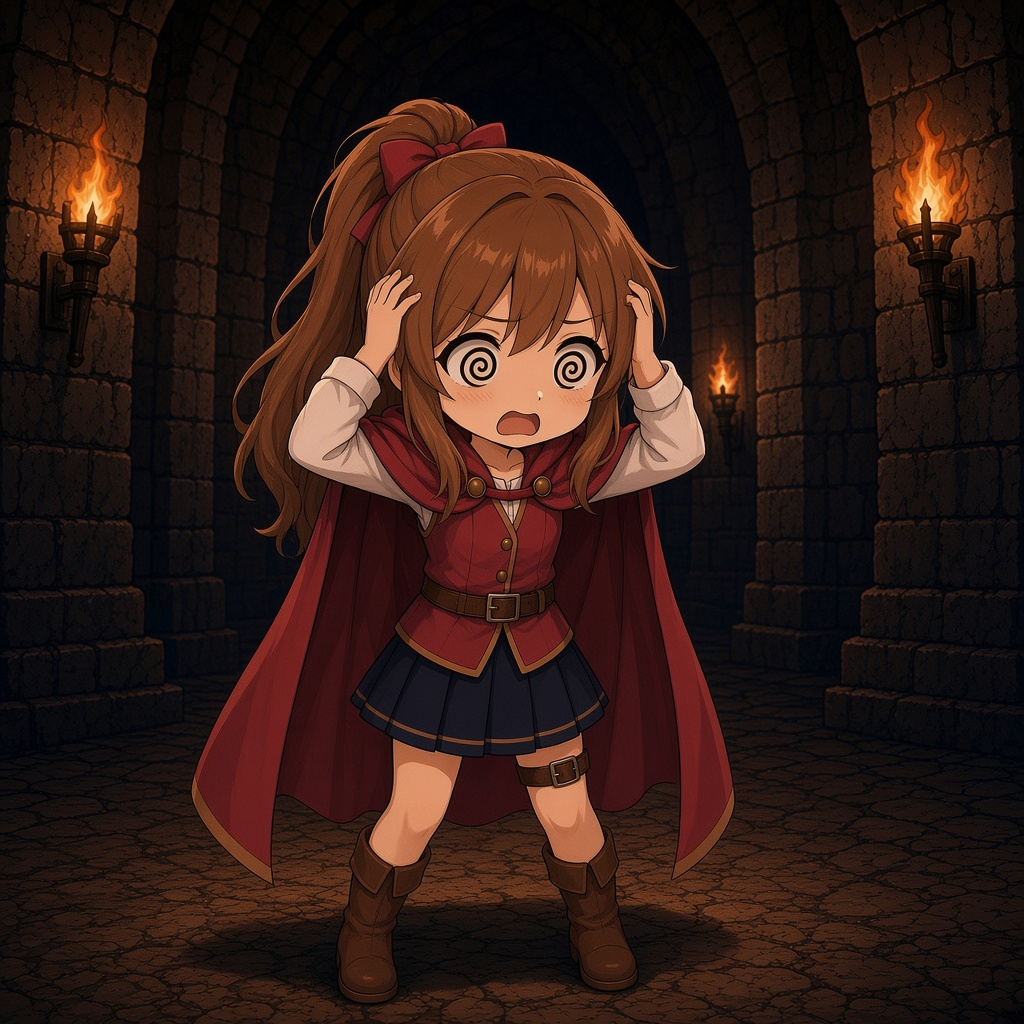
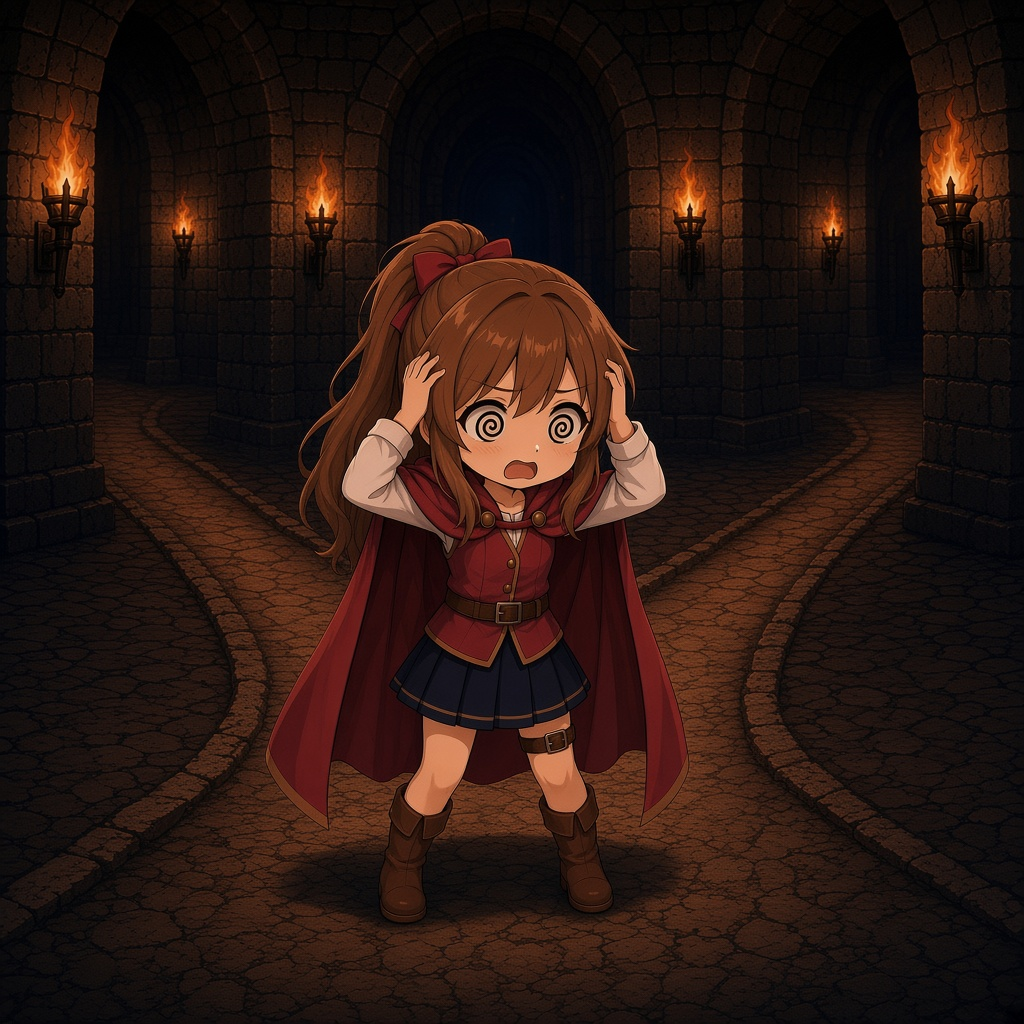
Add path, event, and gear art, and cut out the beggar.

diff --git a/index.html b/index.html
@@ -6021,7 +6021,7 @@
       },
       {
         name: "物乞い",
-        image: "enemy-beggar.jpg?v=1",
+        image: "enemy-beggar.png?v=2",
         rank: "雑魚",
         hp: 15,
         atkHidden: 3,
@@ -6575,20 +6575,20 @@
     const GEAR_ITEMS = [
       { id: "short-sword", name: "ショートソード", slot: "sword", stars: 1, atk: 1, effect: "★　ATK+1", image: "gear-short-sword.jpg?v=2" },
       { id: "long-sword", name: "ロングソード", slot: "sword", stars: 1, atk: 2, effect: "★　ATK+2", image: "gear-long-sword.jpg?v=2" },
-      { id: "poison-sword", name: "ポイズンソード", slot: "sword", stars: 3, atk: 1, poisonHit: 1, effect: "★★★　ATK+1。アタックカードでダメージを与えるたび毒+1（敵のシールドでも毒は入る）", image: "gear-poison-sword.svg?v=2" },
-      { id: "flame-sword", name: "フレイムソード", slot: "sword", stars: 3, atk: 2, burnHit: 1, effect: "★★★　ATK+2。与えるダメージを通すたび炎上+1", image: "gear-flame-sword.svg?v=2" },
-      { id: "excalibur", name: "大天使の剣", slot: "sword", stars: 5, atk: 5, ignoreDef: true, effect: "★★★★★　ATK+5。敵のDEFを無視する", image: "gear-excalibur.svg?v=2" },
+      { id: "poison-sword", name: "ポイズンソード", slot: "sword", stars: 3, atk: 1, poisonHit: 1, effect: "★★★　ATK+1。アタックカードでダメージを与えるたび毒+1（敵のシールドでも毒は入る）", image: "gear-poison-sword.jpg?v=3" },
+      { id: "flame-sword", name: "フレイムソード", slot: "sword", stars: 3, atk: 2, burnHit: 1, effect: "★★★　ATK+2。与えるダメージを通すたび炎上+1", image: "gear-flame-sword.jpg?v=3" },
+      { id: "excalibur", name: "大天使の剣", slot: "sword", stars: 5, atk: 5, ignoreDef: true, effect: "★★★★★　ATK+5。敵のDEFを無視する", image: "gear-excalibur.jpg?v=3" },
       { id: "buckler", name: "バックラー", slot: "shield", stars: 1, def: 1, effect: "★　DEF+1", image: "gear-buckler.jpg" },
       { id: "leather-shield", name: "皮の盾", slot: "shield", stars: 1, def: 1, effect: "★　DEF+1", image: "gear-leather-shield.jpg" },
       { id: "iron-shield", name: "鉄の盾", slot: "shield", stars: 1, def: 2, effect: "★　DEF+2", image: "gear-iron-shield.jpg" },
-      { id: "battle-counter", name: "バトルカウンター", slot: "shield", stars: 3, def: 2, reflectDef: true, effect: "★★★　DEF+2。ダメージを食らうと、相手にいまのDEFだけダメージ", image: "gear-battle-counter.svg?v=2" },
-      { id: "eagle-shield", name: "大天使の盾", slot: "shield", stars: 5, def: 5, statusImmune: true, effect: "★★★★★　DEF+5。状態異常を無視する", image: "gear-eagle-shield.svg?v=2" },
-      { id: "lion-shield", name: "獅子の盾", slot: "shield", stars: 4, atk: 2, def: 2, effect: "★★★★　ATK+2　DEF+2", image: "gear-lion-shield.svg?v=2" },
-      { id: "chain-attack", name: "連撃の腕輪", slot: "braceletR", stars: 4, effect: "★★★★　手札に攻撃がないとき、山札から攻撃カードを引く。右にのみ装備できる。", image: "gear-bracelet.jpg" },
-      { id: "chain-guard", name: "連守の腕輪", slot: "braceletL", stars: 4, effect: "★★★★　手札に防御がないとき、山札から防御カードを引く。左にのみ装備できる。", image: "gear-bracelet.jpg" },
-      { id: "power-bracelet", name: "力の腕輪", slot: "braceletR", stars: 2, atk: 3, effect: "★★　右手。ATK+3", image: "gear-power-bracelet.svg?v=2" },
-      { id: "guard-bracelet", name: "守りの腕輪", slot: "braceletL", stars: 2, def: 3, effect: "★★　左手。DEF+3", image: "gear-guard-bracelet.svg?v=2" },
-      { id: "reuse-bracelet", name: "再利用の腕輪", slot: "braceletAny", stars: 3, carryMana: true, effect: "★★★　使わなかったマナを次のターンへ持ち越す。持ち越し分はオレンジの一時マナで、使うと空枠を残さず消える", image: "gear-reuse-bracelet.svg?v=2" },
+      { id: "battle-counter", name: "バトルカウンター", slot: "shield", stars: 3, def: 2, reflectDef: true, effect: "★★★　DEF+2。ダメージを食らうと、相手にいまのDEFだけダメージ", image: "gear-battle-counter.jpg?v=3" },
+      { id: "eagle-shield", name: "大天使の盾", slot: "shield", stars: 5, def: 5, statusImmune: true, effect: "★★★★★　DEF+5。状態異常を無視する", image: "gear-eagle-shield.jpg?v=3" },
+      { id: "lion-shield", name: "獅子の盾", slot: "shield", stars: 4, atk: 2, def: 2, effect: "★★★★　ATK+2　DEF+2", image: "gear-lion-shield.jpg?v=3" },
+      { id: "chain-attack", name: "連撃の腕輪", slot: "braceletR", stars: 4, effect: "★★★★　手札に攻撃がないとき、山札から攻撃カードを引く。右にのみ装備できる。", image: "gear-chain-attack.jpg?v=3" },
+      { id: "chain-guard", name: "連守の腕輪", slot: "braceletL", stars: 4, effect: "★★★★　手札に防御がないとき、山札から防御カードを引く。左にのみ装備できる。", image: "gear-chain-guard.jpg?v=3" },
+      { id: "power-bracelet", name: "力の腕輪", slot: "braceletR", stars: 2, atk: 3, effect: "★★　右手。ATK+3", image: "gear-power-bracelet.jpg?v=3" },
+      { id: "guard-bracelet", name: "守りの腕輪", slot: "braceletL", stars: 2, def: 3, effect: "★★　左手。DEF+3", image: "gear-guard-bracelet.jpg?v=3" },
+      { id: "reuse-bracelet", name: "再利用の腕輪", slot: "braceletAny", stars: 3, carryMana: true, effect: "★★★　使わなかったマナを次のターンへ持ち越す。持ち越し分はオレンジの一時マナで、使うと空枠を残さず消える", image: "gear-reuse-bracelet.jpg?v=3" },
     ];
     // ボスの報酬だけで手に入る。ランダムな装備には入れない。レアリティ欄は「ボス」。
     const BOSS_GEAR = [
@@ -9785,20 +9785,20 @@
             <div class="ref-grid">
               ${sheetFig("gear-short-sword.jpg?v=2", "ショートソード")}
               ${sheetFig("gear-long-sword.jpg?v=2", "ロングソード")}
-              ${sheetFig("gear-poison-sword.svg?v=2", "ポイズンソード")}
-              ${sheetFig("gear-flame-sword.svg?v=2", "フレイムソード")}
-              ${sheetFig("gear-excalibur.svg?v=2", "大天使の剣")}
+              ${sheetFig("gear-poison-sword.jpg?v=3", "ポイズンソード")}
+              ${sheetFig("gear-flame-sword.jpg?v=3", "フレイムソード")}
+              ${sheetFig("gear-excalibur.jpg?v=3", "大天使の剣")}
               ${sheetFig("gear-buckler.jpg", "バックラー")}
               ${sheetFig("gear-leather-shield.jpg", "皮の盾")}
               ${sheetFig("gear-iron-shield.jpg", "鉄の盾")}
-              ${sheetFig("gear-battle-counter.svg?v=2", "バトルカウンター")}
-              ${sheetFig("gear-eagle-shield.svg?v=2", "大天使の盾")}
-              ${sheetFig("gear-lion-shield.svg?v=2", "獅子の盾")}
-              ${sheetFig("gear-bracelet.jpg", "連撃の腕輪")}
-              ${sheetFig("gear-bracelet.jpg", "連守の腕輪")}
-              ${sheetFig("gear-power-bracelet.svg?v=2", "力の腕輪")}
-              ${sheetFig("gear-guard-bracelet.svg?v=2", "守りの腕輪")}
-              ${sheetFig("gear-reuse-bracelet.svg?v=2", "再利用の腕輪")}
+              ${sheetFig("gear-battle-counter.jpg?v=3", "バトルカウンター")}
+              ${sheetFig("gear-eagle-shield.jpg?v=3", "大天使の盾")}
+              ${sheetFig("gear-lion-shield.jpg?v=3", "獅子の盾")}
+              ${sheetFig("gear-chain-attack.jpg?v=3", "連撃の腕輪")}
+              ${sheetFig("gear-chain-guard.jpg?v=3", "連守の腕輪")}
+              ${sheetFig("gear-power-bracelet.jpg?v=3", "力の腕輪")}
+              ${sheetFig("gear-guard-bracelet.jpg?v=3", "守りの腕輪")}
+              ${sheetFig("gear-reuse-bracelet.jpg?v=3", "再利用の腕輪")}
               ${sheetFig("gear-medal.jpg", "メダル")}
             </div>
             <h4>使い捨てアイテム</h4>
@@ -9822,20 +9822,20 @@
               ${sheetFig("path-beggar.jpg?v=4", "物乞い")}
               ${sheetFig("path-shop.jpg?v=6", "お店")}
               ${sheetFig("path-rest.jpg?v=3", "休憩")}
-              ${sheetFig("path-lost.jpg?v=5", "迷子")}
+              ${sheetFig("path-lost.jpg?v=6", "迷子")}
               ${sheetFig("path-unknown.jpg?v=5", "遭遇")}
             </div>
             <h3>道のあとのイベント（画像置き場）</h3>
-            <p class="album-meta">道を選んだあとに出る出来事の絵。未作成は点線の枠。お店は女の戦士とおしゃれな骸骨</p>
+            <p class="album-meta">道を選んだあとに出る出来事の絵。頭身は戦闘絵と同じ。お店は女の戦士とおしゃれな骸骨</p>
             <div class="ref-grid">
-              ${sheetSlot("探索", "イベント画面", "span-2", "land")}
-              ${sheetSlot("連戦", "つづきの戦闘へ", "span-2 path-series", "land")}
-              ${sheetSlot("物乞い", "カード廃棄", "span-2", "land")}
+              ${sheetFig("event-search.jpg?v=1", "探索", "land-ref", "span-2")}
+              ${sheetFig("event-fight.jpg?v=1", "連戦", "land-ref", "span-2 path-series")}
+              ${sheetFig("event-beggar.jpg?v=1", "物乞い", "land-ref", "span-2")}
               ${sheetFig("shop-merchant.jpg?v=2", "お店", "land-ref", "span-2")}
-              ${sheetSlot("休憩", "最大HPの30%回復", "span-2", "land")}
-              ${sheetSlot("迷子", "効果は未定", "span-2", "land")}
-              ${sheetSlot("遭遇", "だれかと会う", "span-2", "land")}
-              ${sheetSlot("ジョブ", "階層イベント", "span-2", "land")}
+              ${sheetFig("event-rest.jpg?v=1", "休憩", "land-ref", "span-2")}
+              ${sheetFig("event-lost.jpg?v=1", "迷子", "land-ref", "span-2")}
+              ${sheetFig("event-unknown.jpg?v=1", "遭遇", "land-ref", "span-2")}
+              ${sheetFig("event-job.jpg?v=1", "ジョブ", "land-ref", "span-2")}
             </div>
             <h3>ダンジョン</h3>
             <div class="ref-grid">
@@ -9853,7 +9853,7 @@
               ${sheetFig("enemy-goblin.png?v=3", "ゴブリン", "enemy-ref")}
               ${sheetFig("enemy-minotaur.png?v=4", "ミノタウロス", "enemy-ref")}
               ${sheetFig("enemy-dragon.png?v=3", "ちびドラゴン", "enemy-ref")}
-              ${sheetFig("enemy-beggar.jpg?v=1", "物乞い", "enemy-ref")}
+              ${sheetFig("enemy-beggar.png?v=2", "物乞い", "enemy-ref")}
             </div>
           </div>
           ${sheetZoomSide()}
@@ -10010,11 +10010,17 @@
           return `<button type="button" class="beggar-card" data-action="beggar-drop" data-index="${i}">${face}</button>`;
         }).join("") || `<p>外せるカードは無い。</p>`}</div>`
         : "";
-      const art = floorKind === "挑戦者に祝福を"
-        ? `<img class="event-picture" src="${esc(heroItem().bless || "blessing-goddess-f.jpg?v=1")}" alt="荘厳な女神が、ひざまずく${esc(heroName())}に祝福を授けている">`
-        : floorKind === "お店"
-        ? `<img class="event-picture" src="shop-merchant.jpg?v=2" alt="女の戦士と、おしゃれな骸骨の商い">`
-        : "";
+      const eventPictures = {
+        "挑戦者に祝福を": [heroItem().bless || "blessing-goddess-f.jpg?v=1", `荘厳な女神が、ひざまずく${heroName()}に祝福を授けている`],
+        "お店": ["shop-merchant.jpg?v=2", "女の戦士と、おしゃれな骸骨の商い"],
+        "探索": ["event-search.jpg?v=1", "宝箱を照らす女の戦士"],
+        "キャンプ": ["event-rest.jpg?v=1", "焚き火で休む女の戦士"],
+        "物乞いに遭遇": ["event-beggar.jpg?v=1", "物乞いにカードを差し出す女の戦士"],
+        "ジョブ": ["event-job.jpg?v=1", "紋章の前に立つ女の戦士"],
+        "未知": ["event-unknown.jpg?v=1", "見知らぬ人と出会う女の戦士"],
+      };
+      const eventRow = eventPictures[floorKind];
+      const art = eventRow ? `<img class="event-picture" src="${esc(eventRow[0])}" alt="${esc(eventRow[1])}">` : "";
       const blessLive = floorPhase === "bless" ? takeRare("bless") : false;
       const giftLive = floorPhase === "show" ? takeRare("gift") : false;
       const blessLevels = [];
